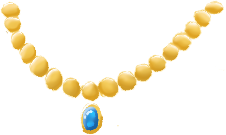
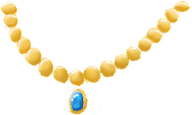
P2: resize update
had to fix some spelling and resize the images due to github's live being different aspect range

diff --git a/Projects/Project2/js/script.js b/Projects/Project2/js/script.js
@@ -136,12 +136,14 @@ function changeScene(currentScene){
   } else if (scene === "office"){
     $(`.decipher`).css("display", "none");
     $(`.schedule`).css("display", "none");
+    $(`.interview`).css("display", "none");
     $(`.search`).css("display", "block");
     $(`#infotab`).css("display", "none");
     $(`#infoButton`).css("display", "none");
     $(`body`).css('background-image', 'url("css/images/office.png")');
   } else if (scene === "bedroom"){
     $(`.phone`).css("display", "none");
+    $(`.interview`).css("display", "none");
     $(`.search`).css("display", "block");
     $(`#infotab`).css("display", "none");
     $(`#infoButton`).css("display", "none");
@@ -165,6 +167,7 @@ function changeScene(currentScene){
   } else if (scene === "treasure"){
     $(`.treasureSort`).css("display", "none");
     $(`.glassPuzzle`).css("display", "none");
+    $(`.interview`).css("display", "none");
     $(`.search`).css("display", "block");
     $(`#infotab`).css("display", "none");
     $(`#infoButton`).css("display", "none");
@@ -183,7 +186,11 @@ function changeScene(currentScene){
     $(`.search`).css("display", "none");
     $(`.phone`).css("display", "block");
     $(`.interview`).css("display", "none");
-    $(`body`).css('background-image', 'url("css/images/phone-bg-lock.jpg")');
+    if (phoneGame === true){
+      $(`body`).css('background-image', 'url("css/images/phone-bg.jpg")');
+    } else {
+        $(`body`).css('background-image', 'url("css/images/phone-bg-lock.jpg")');
+    }
   }
 }
 
@@ -194,7 +201,7 @@ $(`#glassCrack`).click(function(){
   $(`#infoButton1`).css("display", "none");
   $(`#returnButton1`).css("display", "block");
   $(`#infoTitle1`).html("A cracked hole in the glass");
-  $(`#infoText1`).html("A broken hole in the glass that seems to have been brokwn in a fight.");
+  $(`#infoText1`).html("A broken hole in the glass that seems to have been broken in order to get whatever was behind it.");
   scene = "none";
 });
 
@@ -203,7 +210,7 @@ $(`#schedule`).click(function(){
   $(`#infoButton1`).css("display", "block");
   $(`#returnButton1`).css("display", "none");
   $(`#infoTitle1`).html("The victim's schedule");
-  $(`#infoText1`).html("Looks like the victim's schedule for the day of his death. Doesn't look like it was made for him though");
+  $(`#infoText1`).html("Looks like the victim's schedule for the day of his death. Better examine it to get a better idae of his day");
   $(`#infoButton1`).attr("onclick", 'changeScene("schedule")');
 });
 
@@ -212,7 +219,7 @@ $(`#paintingTear`).click(function(){
   $(`#infoButton1`).css("display", "none");
   $(`#returnButton1`).css("display", "block");
   $(`#infoTitle1`).html("Scratches in the painting");
-  $(`#infoText1`).html("Someone must have gotten angry with a knife in hand... or they just really don't like owls");
+  $(`#infoText1`).html("Someone must have gotten into a fight in here... or they just really don't like owls");
   scene = "none";
 });
 
@@ -242,7 +249,7 @@ $(`#knuckles`).click(function(){
   $(`#infoButton2`).css("display", "none");
   $(`#returnButton2`).css("display", "block");
   $(`#infoTitle2`).html("A pair of gold brass knuckles");
-  $(`#infoText2`).html("Could have been used to kill the victim although they look pretty decorative.");
+  $(`#infoText2`).html("Could have been used to kill the victim, they look decorative but there's a bunch of dents on them.");
   scene = "none";
 });
 
@@ -300,6 +307,13 @@ $(`#caroline`).click(function(){
   $(`#infoTitle1`).html("Caroline Wheeler");
   $(`#infoText1`).html("Our first suspect. She's the victim's assistant");
   $(`#infoButton1`).attr("onclick", 'changeScene("interview")');
+  $(`#carolineText`).html('<strong>"Hello there..."</strong>')
+  $(`#carolineQ1`).css("display", "block");
+  $(`#carolineQ2`).css("display", "block");
+  $(`#carolineQ3`).css("display", "block");
+  $(`#carolineQ1`).html("Who were you to the victim?");
+  $(`#carolineQ2`).html("Where were you on the night of the murder?");
+  $(`#carolineQ3`).html("How are you today?");
 });
 $(`#shane`).click(function(){
   $(`#infotab2`).css("display", "block");
@@ -308,6 +322,13 @@ $(`#shane`).click(function(){
   $(`#infoTitle2`).html("Shane Harper");
   $(`#infoText2`).html("The second suspect. The victim's rowdy brother");
   $(`#infoButton2`).attr("onclick", 'changeScene("interview")');
+  $(`#shaneText`).html('<strong>"Hey, you the detective or something?"</strong>');
+  $(`#shaneQ1`).css("display", "block");
+  $(`#shaneQ2`).css("display", "block");
+  $(`#shaneQ3`).css("display", "block");
+  $(`#shaneQ1`).html("Who were you to the victim?");
+  $(`#shaneQ2`).html("Where were you the night of the murder?");
+  $(`#shaneQ3`).html("What are you doing in here, this is a crime scene?");
 });
 $(`#danielle`).click(function(){
   $(`#infotab3`).css("display", "block");
@@ -316,6 +337,13 @@ $(`#danielle`).click(function(){
   $(`#infoTitle3`).html("Danielle Harper");
   $(`#infoText3`).html("The final suspect. She's the victim's wife");
   $(`#infoButton3`).attr("onclick", 'changeScene("interview")');
+  $(`#danielleText`).html('<strong>"Oh, Hello. You must be the detective on the case"</strong>');
+  $(`#danielleQ1`).css("display", "block");
+  $(`#danielleQ2`).css("display", "block");
+  $(`#danielleQ3`).css("display", "block");
+  $(`#danielleQ1`).html("Where were you the night of the murder?");
+  $(`#danielleQ2`).html("Who were you to the victim?");
+  $(`#danielleQ3`).html("You look very tired, were you up late?");
 });
 
 //-------------- Note decipher section --------------
@@ -535,8 +563,8 @@ $("#carolineQ1").click(function(){
   } else if (roundNum === 3){
     cInterview3();
   } else if (roundNum === 4){
-    $(`.interview`).css("display", "none");
-    $(`.search`).css("display", "block");
+    roundNum = 1;
+    changeScene("office");
   }
 });
 //second button adds 1 to ID to get a diferent set of questions
@@ -584,8 +612,8 @@ function cInterview2(){
     $(`#carolineQ1`).html("Would you say Mr. Harper was a paranoid person?");
     $(`#carolineQ2`).html("So do you always know where he is?");
   } else if (id === 3){
-    $("#carolineText").html("I got to the house 8'o clock, The police were already here when I got here.");
-    $(`#carolineQ1`).html("Were you and Mr. Harper close?");
+    $("#carolineText").html("I got to the house at half past 8'o clock, The police were already here when I got here.");
+    $(`#carolineQ1`).html("So do you always know where he is?");
     $(`#carolineQ2`).html("Did Mr. Harper have any enemies?");
   } else if (id === 4){
     $("#carolineText").html("I'm his assistant. I manage his schedule and organize his paperwork");
@@ -606,18 +634,15 @@ function cInterview3(){
   } else if (id === 3){
     $("#carolineText").html("No, he's a busy man. He did a lot of random things without informing me.");
   } else if (id === 4){
-    $("#carolineText").html("No not really, our relationship was strictly professional.");
-  }else if (id === 5){
     $("#carolineText").html("He was a lawyer so he made a lot of people mad... Although, I wouldn't say mad enough to kill him");
-  } else if (id === 6){
+  } else if (id === 5){
     $("#carolineText").html("Well... It wasn't a bad job but Mr. Harper kept me very busy. I was always very tired...");
   }
   $(`#carolineQ1`).html("Thank you for your time.");
   $(`#carolineQ2`).css("display", "none");
   $(`#carolineQ3`).css("display", "none");
-  roundNum = 1;
+  roundNum += 1;
   carolineInt = true;
-  changeScene("office");
 }
 //SHANE
 $("#shaneQ1").click(function(){
@@ -628,8 +653,8 @@ $("#shaneQ1").click(function(){
   } else if (roundNum === 3){
     sInterview3();
   } else if (roundNum === 4){
-    $(`.interview`).css("display", "none");
-    $(`.search`).css("display", "block");
+    roundNum = 1;
+    changeScene("treasure");
   }
 });
 $("#shaneQ2").click(function(){
@@ -705,9 +730,8 @@ function sInterview3(){
   $(`#shaneQ1`).html("Thank you for your time.");
   $(`#shaneQ2`).css("display", "none");
   $(`#shaneQ3`).css("display", "none");
-  roundNum = 1;
+  roundNum += 1;
   shaneInt = true;
-  changeScene("treasure");
 }
 //DANIELLE
 $("#danielleQ1").click(function(){
@@ -718,10 +742,8 @@ $("#danielleQ1").click(function(){
   } else if (roundNum === 3){
     dInterview3();
   } else if (roundNum === 4){
-    $(`.dInterview`).css("display", "none");
-    $(`.bedroomSearch`).css("display", "block");
-    $(`#infotab`).css("display", "none");
-    $(`#infoButton`).css("display", "none");
+    roundNum = 1;
+    changeScene("bedroom");
   }
 });
 $("#danielleQ2").click(function(){
@@ -758,7 +780,7 @@ function dInterview1(){
 }
 function dInterview2(){
   if (id === 1){
-    $("#danielleText").html("Around 7 I believe? That is the last time I can remember before the chaos started");
+    $("#danielleText").html("Around 8 I believe? That is the last time I can remember before the chaos started");
     $(`#danielleQ1`).html("Did you see or hear anyone enter the house before then?");
     $(`#danielleQ2`).html("Did you hear any loud noises throughout the night? Like fighting or glass breaking?");
   } else if (id === 2){
@@ -795,9 +817,8 @@ function dInterview3(){
   $(`#danielleQ1`).html("Thank you for your time.");
   $(`#danielleQ2`).css("display", "none");
   $(`#danielleQ3`).css("display", "none");
-  roundNum = 1;
+  roundNum += 1;
   danielleInt = true;
-  changeScene("bedroom");
 }
 
 //----------------- ENDING --------------

diff --git a/Projects/Project2/index.html b/Projects/Project2/index.html
@@ -119,11 +119,11 @@
           width="441" height:"550">
         </section>
         <section class="textbox">
-          <p id="charText"><strong>"Hello there..."</strong></p>
+          <p class="charText" id="carolineText"><strong>"Hello there..."</strong></p>
           <section class="choices">
-            <span class="userText" id="userText1">Who were you to the victim?</span>
-            <span class="userText" id="userText2">Where were you on the night of the murder?</span>
-            <span class="userText" id="userText3">How are you today?</span>
+            <span class="userText" id="carolineQ1">Who were you to the victim?</span>
+            <span class="userText" id="carolineQ2">Where were you on the night of the murder?</span>
+            <span class="userText" id="carolineQ3">How are you today?</span>
           </section>
         </section>
       </div>
@@ -170,7 +170,7 @@
         <div class="miniTextbox" id="scheduleTextbox">
           <p class="miniText" id="scheduletext1"><strong>Sort the events on the dropped schedule</strong></p>
           <p class="miniText" id="scheduletext2">Drag the boxes to rearrange them in the proper order based on the hint below, then hit "Check schedule order" to confirm the order</p>
-          <p class="miniText" id="scheduletext3">"With Mr. Haper its always family first, meetings last and he also has a nasty habit of sending papers early, but making the pickup time late."</p>
+          <p class="miniText" id="scheduletext3">"With Mr. Harper its always family first, meetings last. He also has a nasty habit of sending papers early, but making the pickup time late."</p>
           <button class="miniButton" id="scheduleButton" onclick='changeScene("office")' style="display: none">Return to room</button>
         </div>
         <div class="schedulePage">
@@ -237,8 +237,8 @@
           <p class="charText" id="shaneText"><strong>"Hey, you the detective or something?"</strong></p>
           <section class="choices">
             <span class="userText" id="shaneQ1">Who were you to the victim?</span>
-            <span class="userText" id="shaneQ2">What are you doing in here, this is a crime scene?</span>
-            <span class="userText" id="shaneQ3">Where were you the night of the murder?</span>
+            <span class="userText" id="shaneQ2">Where were you the night of the murder?</span>
+            <span class="userText" id="shaneQ3">What are you doing in here, this is a crime scene?</span>
           </section>
         </section>
       </div>

diff --git a/Projects/Project2/css/style.css b/Projects/Project2/css/style.css
@@ -165,7 +165,7 @@ body {
   text-align: center;
   overflow-wrap: break-word;
   margin-right: 50px;
-  font-size: 2.5vh;
+  font-size: 2.6vh;
 }
 
 /**************** Search Section ******************/
@@ -488,7 +488,7 @@ body {
 }
 
 .row {
-  width: 425px;
+  width: 440px;
   height: 750px;
   display: block;
   text-align: center;
@@ -497,53 +497,54 @@ body {
 
 #greenNecklace {
   visibility: hidden;
-  margin-top: 135px;
-  margin-left: 75px;
+  margin-top: 140px;
+  margin-left: 70px;
   width: auto;
   height: auto;
 }
 #redNecklace {
   visibility: hidden;
-  margin-top: 260px;
+  margin-top: 275px;
   margin-left: 50px;
   width: auto;
   height: auto;
 }
 #blueNecklace {
   visibility: hidden;
-  margin-top: 10px;
+  margin-top: 20px;
   margin-right: 550px;
   width: auto;
   height: auto;
 }
 #sword {
   visibility: hidden;
-  margin-top: 350px;
+  margin-top: 355px;
+  margin-right: 55px;
   width: auto;
   height: auto;
 }
 
 #greenNecklace2 {
-  margin-left: 350px;
+  margin-left: 275px;
   margin-top: 50px;
   width: auto;
   height: auto;
 }
 #redNecklace2 {
-  margin-left: 400px;
-  margin-top: 100px;
+  margin-left: 325px;
+  margin-top: 75px;
   width: auto;
   height: auto;
 }
 #blueNecklace2 {
-  margin-left: 350px;
-  margin-top: 100px;
+  margin-left: 300px;
+  margin-top: 75px;
   width: auto;
   height: auto;
 }
 #sword2 {
-  margin-left: 250px;
-  margin-top: 100px;
+  margin-left: 200px;
+  margin-top: 75px;
   width: auto;
   height: auto;
 }
